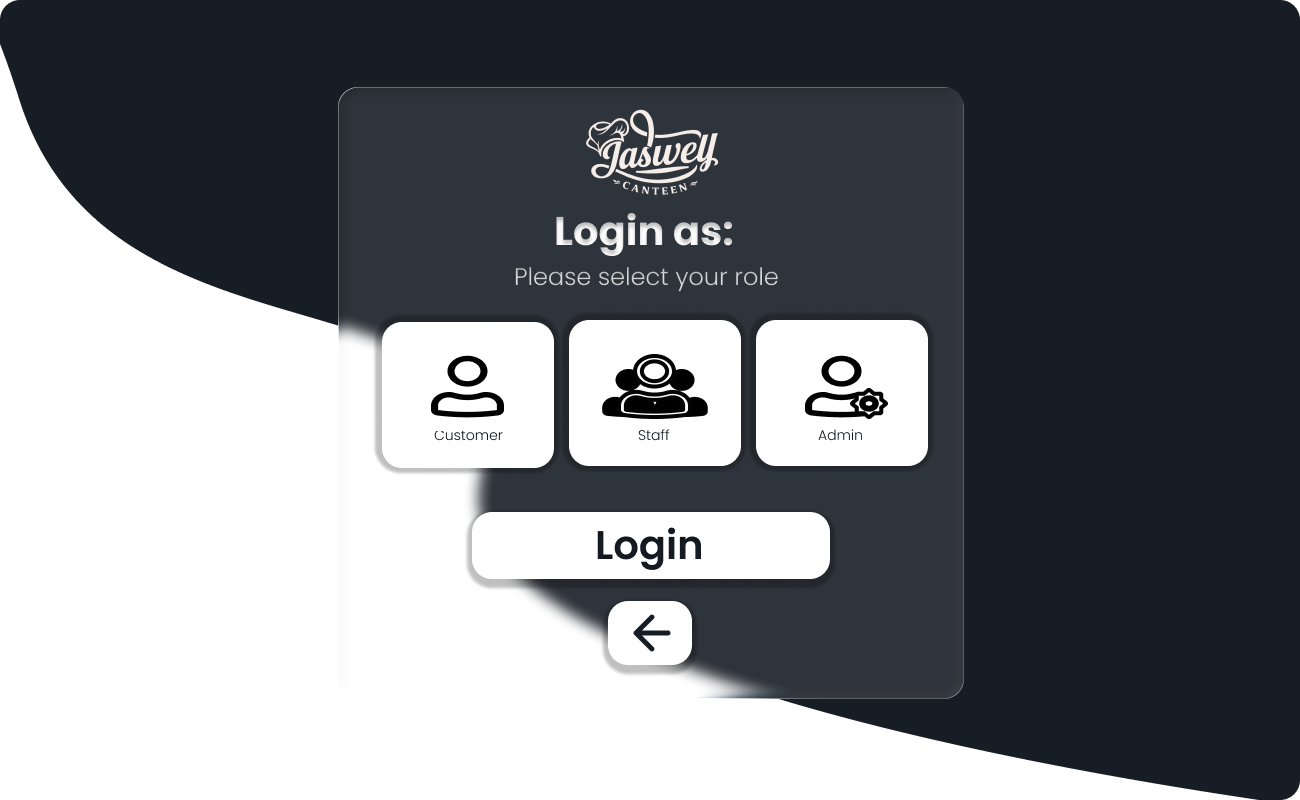
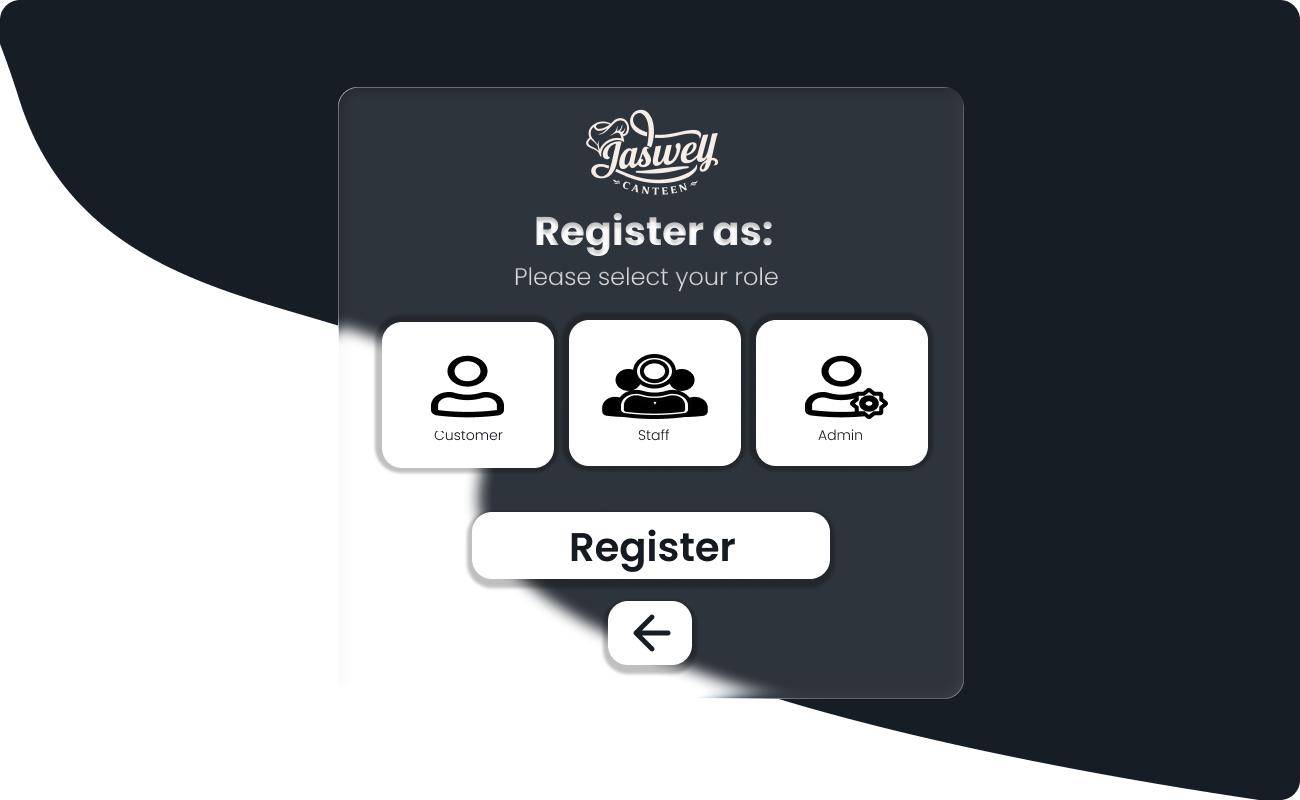
order & start up

Changed region(s): [[0.4, 0.25, 0.5846, 0.3438], [0.4308, 0.6562, 0.5846, 0.7188]]

diff --git a/ADSFinalProject/src/adsfinalproject/startUp.java b/ADSFinalProject/src/adsfinalproject/startUp.java
@@ -32,10 +32,10 @@ public class startUp extends javax.swing.JFrame {
         setLocationRelativeTo(null);
         btnLogin.setContentAreaFilled(false);
         btnRegister.setContentAreaFilled(false);
-        btnNext.setContentAreaFilled(false);
+        btnLOg.setContentAreaFilled(false);
         btnBackLog.setContentAreaFilled(false);
         btnBackLog1.setContentAreaFilled(false);
-        btnLogConfirm.setContentAreaFilled(false);
+        btnregConfirm.setContentAreaFilled(false);
         btnLogStaff.setContentAreaFilled(false);
         btnLogCustomer.setContentAreaFilled(false);
         btnLogAdmin.setContentAreaFilled(false);
@@ -82,12 +82,12 @@ public class startUp extends javax.swing.JFrame {
         jPanel1 = new javax.swing.JPanel();
         pnlLog = new javax.swing.JPanel();
         btnBackLog = new javax.swing.JButton();
-        btnNext = new javax.swing.JButton();
+        btnLOg = new javax.swing.JButton();
         txtLoginEmail = new javax.swing.JTextField();
         txtLoginPass = new javax.swing.JTextField();
         jLabel2 = new javax.swing.JLabel();
         pnlReg = new javax.swing.JPanel();
-        btnRegConfirm = new javax.swing.JButton();
+        btnRegNext = new javax.swing.JButton();
         btnBackReg = new javax.swing.JButton();
         txtRegPass = new javax.swing.JTextField();
         txtRegEmail = new javax.swing.JTextField();
@@ -101,7 +101,7 @@ public class startUp extends javax.swing.JFrame {
         btnLogAdmin = new javax.swing.JButton();
         btnLogStaff = new javax.swing.JButton();
         btnLogCustomer = new javax.swing.JButton();
-        btnLogConfirm = new javax.swing.JButton();
+        btnregConfirm = new javax.swing.JButton();
         btnBackLog1 = new javax.swing.JButton();
         jLabel4 = new javax.swing.JLabel();
 
@@ -125,15 +125,15 @@ public class startUp extends javax.swing.JFrame {
         });
         pnlLog.add(btnBackLog, new org.netbeans.lib.awtextra.AbsoluteConstraints(610, 600, 80, 60));
 
-        btnNext.setForeground(new java.awt.Color(0, 0, 0));
-        btnNext.setText("-");
-        btnNext.setBorder(null);
-        btnNext.addActionListener(new java.awt.event.ActionListener() {
+        btnLOg.setForeground(new java.awt.Color(0, 0, 0));
+        btnLOg.setText("-");
+        btnLOg.setBorder(null);
+        btnLOg.addActionListener(new java.awt.event.ActionListener() {
             public void actionPerformed(java.awt.event.ActionEvent evt) {
-                btnNextActionPerformed(evt);
+                btnLOgActionPerformed(evt);
             }
         });
-        pnlLog.add(btnNext, new org.netbeans.lib.awtextra.AbsoluteConstraints(545, 513, 220, 70));
+        pnlLog.add(btnLOg, new org.netbeans.lib.awtextra.AbsoluteConstraints(560, 510, 220, 70));
 
         txtLoginEmail.setBackground(new java.awt.Color(255, 255, 255));
         txtLoginEmail.setForeground(new java.awt.Color(0, 0, 0));
@@ -155,17 +155,17 @@ public class startUp extends javax.swing.JFrame {
         pnlReg.setPreferredSize(new java.awt.Dimension(1300, 800));
         pnlReg.setLayout(new org.netbeans.lib.awtextra.AbsoluteLayout());
 
-        btnRegConfirm.setForeground(new java.awt.Color(0, 0, 0));
-        btnRegConfirm.setText("-");
-        btnRegConfirm.setBorder(null);
-        btnRegConfirm.setBorderPainted(false);
-        btnRegConfirm.setContentAreaFilled(false);
-        btnRegConfirm.addActionListener(new java.awt.event.ActionListener() {
+        btnRegNext.setForeground(new java.awt.Color(0, 0, 0));
+        btnRegNext.setText("-");
+        btnRegNext.setBorder(null);
+        btnRegNext.setBorderPainted(false);
+        btnRegNext.setContentAreaFilled(false);
+        btnRegNext.addActionListener(new java.awt.event.ActionListener() {
             public void actionPerformed(java.awt.event.ActionEvent evt) {
-                btnRegConfirmActionPerformed(evt);
+                btnRegNextActionPerformed(evt);
             }
         });
-        pnlReg.add(btnRegConfirm, new org.netbeans.lib.awtextra.AbsoluteConstraints(460, 550, 400, 70));
+        pnlReg.add(btnRegNext, new org.netbeans.lib.awtextra.AbsoluteConstraints(460, 550, 400, 70));
 
         btnBackReg.setForeground(new java.awt.Color(0, 0, 0));
         btnBackReg.setText("-");
@@ -175,17 +175,17 @@ public class startUp extends javax.swing.JFrame {
                 btnBackRegActionPerformed(evt);
             }
         });
-        pnlReg.add(btnBackReg, new org.netbeans.lib.awtextra.AbsoluteConstraints(610, 660, 80, 60));
+        pnlReg.add(btnBackReg, new org.netbeans.lib.awtextra.AbsoluteConstraints(630, 670, 80, 60));
 
         txtRegPass.setBackground(new java.awt.Color(255, 255, 255));
         txtRegPass.setForeground(new java.awt.Color(0, 0, 0));
         txtRegPass.setBorder(null);
-        pnlReg.add(txtRegPass, new org.netbeans.lib.awtextra.AbsoluteConstraints(480, 440, 410, 40));
+        pnlReg.add(txtRegPass, new org.netbeans.lib.awtextra.AbsoluteConstraints(480, 470, 410, 40));
 
         txtRegEmail.setBackground(new java.awt.Color(255, 255, 255));
         txtRegEmail.setForeground(new java.awt.Color(0, 0, 0));
         txtRegEmail.setBorder(null);
-        pnlReg.add(txtRegEmail, new org.netbeans.lib.awtextra.AbsoluteConstraints(480, 380, 410, 30));
+        pnlReg.add(txtRegEmail, new org.netbeans.lib.awtextra.AbsoluteConstraints(480, 400, 410, 30));
 
         txtRegName.setBackground(new java.awt.Color(255, 255, 255));
         txtRegName.setForeground(new java.awt.Color(0, 0, 0));
@@ -269,15 +269,15 @@ public class startUp extends javax.swing.JFrame {
         });
         pnlUserChoice.add(btnLogCustomer, new org.netbeans.lib.awtextra.AbsoluteConstraints(380, 320, 190, 150));
 
-        btnLogConfirm.setForeground(new java.awt.Color(0, 0, 0));
-        btnLogConfirm.setText("-");
-        btnLogConfirm.setBorder(null);
-        btnLogConfirm.addActionListener(new java.awt.event.ActionListener() {
+        btnregConfirm.setForeground(new java.awt.Color(0, 0, 0));
+        btnregConfirm.setText("-");
+        btnregConfirm.setBorder(null);
+        btnregConfirm.addActionListener(new java.awt.event.ActionListener() {
             public void actionPerformed(java.awt.event.ActionEvent evt) {
-                btnLogConfirmActionPerformed(evt);
+                btnregConfirmActionPerformed(evt);
             }
         });
-        pnlUserChoice.add(btnLogConfirm, new org.netbeans.lib.awtextra.AbsoluteConstraints(495, 513, 330, 70));
+        pnlUserChoice.add(btnregConfirm, new org.netbeans.lib.awtextra.AbsoluteConstraints(495, 513, 330, 70));
 
         btnBackLog1.setForeground(new java.awt.Color(0, 0, 0));
         btnBackLog1.setText("-");
@@ -309,23 +309,10 @@ public class startUp extends javax.swing.JFrame {
         log1.setVisible(false);
     }//GEN-LAST:event_btnRegisterActionPerformed
 
-    private void btnNextActionPerformed(java.awt.event.ActionEvent evt) {//GEN-FIRST:event_btnNextActionPerformed
+    private void btnLOgActionPerformed(java.awt.event.ActionEvent evt) {//GEN-FIRST:event_btnLOgActionPerformed
         pnlLog.setVisible(false);
-        pnlUserChoice.setVisible(true);
-    }//GEN-LAST:event_btnNextActionPerformed
-
-    private void btnBackLogActionPerformed(java.awt.event.ActionEvent evt) {//GEN-FIRST:event_btnBackLogActionPerformed
-        pnlLog.setVisible(false);
-        log1.setVisible(true);
-    }//GEN-LAST:event_btnBackLogActionPerformed
-
-    private void btnBackLog1ActionPerformed(java.awt.event.ActionEvent evt) {//GEN-FIRST:event_btnBackLog1ActionPerformed
-        pnlLog.setVisible(true);
+        pnlReg.setVisible(false);
         pnlUserChoice.setVisible(false);
-    }//GEN-LAST:event_btnBackLog1ActionPerformed
-
-    private void btnLogConfirmActionPerformed(java.awt.event.ActionEvent evt) {//GEN-FIRST:event_btnLogConfirmActionPerformed
-
         if(selectedRole.equals("customer")){
             CustomerDashboard cd = new CustomerDashboard();
             cd.setVisible(true);
@@ -338,8 +325,25 @@ public class startUp extends javax.swing.JFrame {
             AdminDashboard ad = new AdminDashboard();
             ad.setVisible(true);
             this.dispose();
+            
         }
-    }//GEN-LAST:event_btnLogConfirmActionPerformed
+    }//GEN-LAST:event_btnLOgActionPerformed
+
+    private void btnBackLogActionPerformed(java.awt.event.ActionEvent evt) {//GEN-FIRST:event_btnBackLogActionPerformed
+        pnlLog.setVisible(false);
+        log1.setVisible(true);
+    }//GEN-LAST:event_btnBackLogActionPerformed
+
+    private void btnBackLog1ActionPerformed(java.awt.event.ActionEvent evt) {//GEN-FIRST:event_btnBackLog1ActionPerformed
+        pnlReg.setVisible(true);
+        
+    }//GEN-LAST:event_btnBackLog1ActionPerformed
+
+    private void btnregConfirmActionPerformed(java.awt.event.ActionEvent evt) {//GEN-FIRST:event_btnregConfirmActionPerformed
+pnlLog.setVisible(true);
+        
+        
+    }//GEN-LAST:event_btnregConfirmActionPerformed
 
     private void btnLogCustomerActionPerformed(java.awt.event.ActionEvent evt) {//GEN-FIRST:event_btnLogCustomerActionPerformed
         setRole("customer");
@@ -358,8 +362,9 @@ public class startUp extends javax.swing.JFrame {
         log1.setVisible(true);
     }//GEN-LAST:event_btnBackRegActionPerformed
 
-    private void btnRegConfirmActionPerformed(java.awt.event.ActionEvent evt) {//GEN-FIRST:event_btnRegConfirmActionPerformed
-        // TODO add your handling code here:
+    private void btnRegNextActionPerformed(java.awt.event.ActionEvent evt) {//GEN-FIRST:event_btnRegNextActionPerformed
+        pnlUserChoice.setVisible(true);
+        pnlReg.setVisible(false);
         Connection con = DBConnection.getConnection();
 
     try {
@@ -395,7 +400,7 @@ public class startUp extends javax.swing.JFrame {
     JOptionPane.showMessageDialog(null, e);
     
 }
-    }//GEN-LAST:event_btnRegConfirmActionPerformed
+    }//GEN-LAST:event_btnRegNextActionPerformed
 
     /**
      * @param args the command line arguments
@@ -426,14 +431,14 @@ public class startUp extends javax.swing.JFrame {
     private javax.swing.JButton btnBackLog;
     private javax.swing.JButton btnBackLog1;
     private javax.swing.JButton btnBackReg;
+    private javax.swing.JButton btnLOg;
     private javax.swing.JButton btnLogAdmin;
-    private javax.swing.JButton btnLogConfirm;
     private javax.swing.JButton btnLogCustomer;
     private javax.swing.JButton btnLogStaff;
     private javax.swing.JButton btnLogin;
-    private javax.swing.JButton btnNext;
-    private javax.swing.JButton btnRegConfirm;
+    private javax.swing.JButton btnRegNext;
     private javax.swing.JButton btnRegister;
+    private javax.swing.JButton btnregConfirm;
     private javax.swing.JLabel jLabel1;
     private javax.swing.JLabel jLabel2;
     private javax.swing.JLabel jLabel3;

diff --git a/ADSFinalProject/src/adsfinalproject/CustomerDashboard.java b/ADSFinalProject/src/adsfinalproject/CustomerDashboard.java
@@ -380,6 +380,9 @@ public class CustomerDashboard extends javax.swing.JFrame {
         btnProceedPayment = new javax.swing.JButton();
         lblOrderType = new javax.swing.JLabel();
         lblPayMethod = new javax.swing.JLabel();
+        btnAddQuantity = new javax.swing.JButton();
+        btnRemoveOrder = new javax.swing.JButton();
+        btnSubQuantity = new javax.swing.JButton();
         jLabel26 = new javax.swing.JLabel();
         pnlDish = new javax.swing.JPanel();
         btnCart = new javax.swing.JButton();
@@ -1000,7 +1003,31 @@ public class CustomerDashboard extends javax.swing.JFrame {
         lblPayMethod.setText("-");
         pnlOrders.add(lblPayMethod, new org.netbeans.lib.awtextra.AbsoluteConstraints(30, 710, 200, 60));
 
-        jLabel26.setIcon(new javax.swing.ImageIcon(getClass().getResource("/design/Order.png"))); // NOI18N
+        btnAddQuantity.setBackground(new java.awt.Color(255, 255, 255));
+        btnAddQuantity.setIcon(new javax.swing.ImageIcon(getClass().getResource("/design/trash.png"))); // NOI18N
+        btnAddQuantity.setBorder(null);
+        btnAddQuantity.setBorderPainted(false);
+        btnAddQuantity.setContentAreaFilled(false);
+        btnAddQuantity.setCursor(new java.awt.Cursor(java.awt.Cursor.DEFAULT_CURSOR));
+        pnlOrders.add(btnAddQuantity, new org.netbeans.lib.awtextra.AbsoluteConstraints(610, 90, 60, 40));
+
+        btnRemoveOrder.setBackground(new java.awt.Color(255, 255, 255));
+        btnRemoveOrder.setIcon(new javax.swing.ImageIcon(getClass().getResource("/design/trash.png"))); // NOI18N
+        btnRemoveOrder.setBorder(null);
+        btnRemoveOrder.setBorderPainted(false);
+        btnRemoveOrder.setContentAreaFilled(false);
+        btnRemoveOrder.setCursor(new java.awt.Cursor(java.awt.Cursor.DEFAULT_CURSOR));
+        pnlOrders.add(btnRemoveOrder, new org.netbeans.lib.awtextra.AbsoluteConstraints(741, 93, 60, 40));
+
+        btnSubQuantity.setBackground(new java.awt.Color(255, 255, 255));
+        btnSubQuantity.setIcon(new javax.swing.ImageIcon(getClass().getResource("/design/trash.png"))); // NOI18N
+        btnSubQuantity.setBorder(null);
+        btnSubQuantity.setBorderPainted(false);
+        btnSubQuantity.setContentAreaFilled(false);
+        btnSubQuantity.setCursor(new java.awt.Cursor(java.awt.Cursor.DEFAULT_CURSOR));
+        pnlOrders.add(btnSubQuantity, new org.netbeans.lib.awtextra.AbsoluteConstraints(670, 100, 60, 40));
+
+        jLabel26.setIcon(new javax.swing.ImageIcon(getClass().getResource("/design/currentorder.png"))); // NOI18N
         pnlOrders.add(jLabel26, new org.netbeans.lib.awtextra.AbsoluteConstraints(0, 0, 1340, 800));
 
         jPanel1.add(pnlOrders, "orders");
@@ -2808,6 +2835,7 @@ public class CustomerDashboard extends javax.swing.JFrame {
     private javax.swing.JPanel Dish;
     private javax.swing.JScrollPane bfMeals;
     private javax.swing.JButton btnAbout;
+    private javax.swing.JButton btnAddQuantity;
     private javax.swing.JButton btnBreakfast;
     private javax.swing.JButton btnCC;
     private javax.swing.JButton btnCart;
@@ -2825,8 +2853,10 @@ public class CustomerDashboard extends javax.swing.JFrame {
     private javax.swing.JButton btnPayment;
     private javax.swing.JButton btnPlaceOrder;
     private javax.swing.JButton btnProceedPayment;
+    private javax.swing.JButton btnRemoveOrder;
     private javax.swing.JButton btnRice;
     private javax.swing.JButton btnSnacks;
+    private javax.swing.JButton btnSubQuantity;
     private javax.swing.JButton btnTakeOut;
     private javax.swing.JButton btneWalletPay;
     private javax.swing.JScrollPane drinks;
